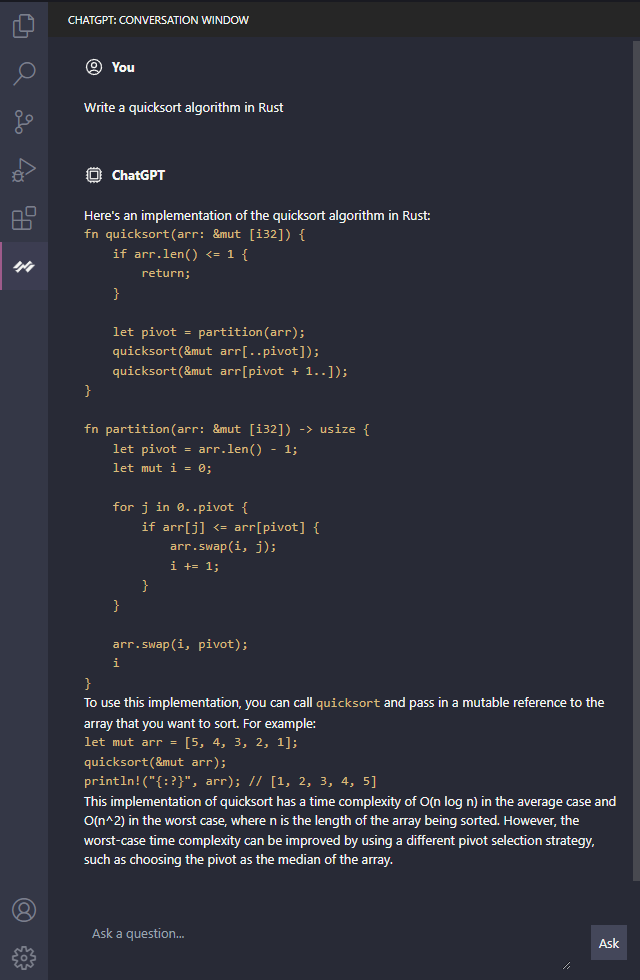
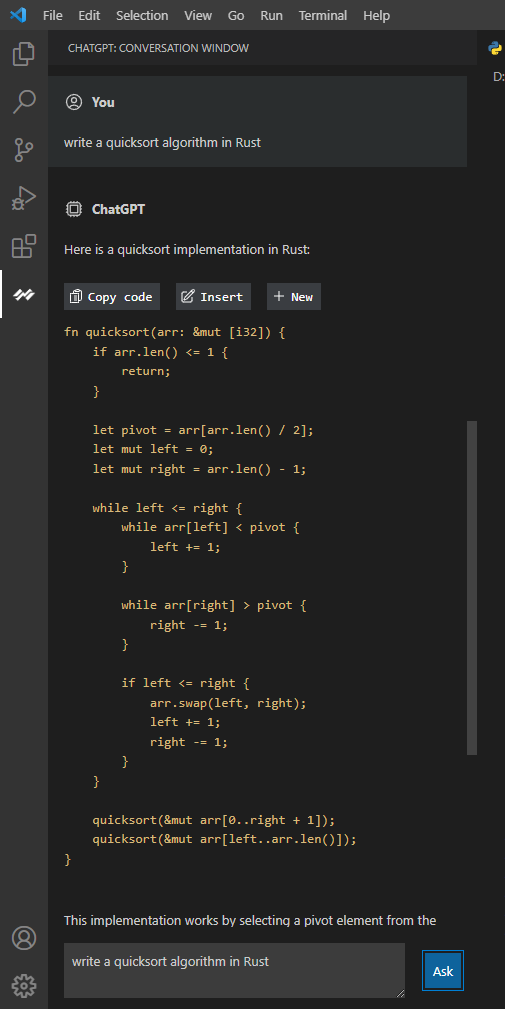
Added copy code, insert and new file features. Addressing #1
Updated Readme.md and Changelog.md with new features

diff --git a/media/main.js b/media/main.js
@@ -5,6 +5,18 @@
 (function () {
     const vscode = acquireVsCodeApi();
 
+    const copySvg = `<svg xmlns="http://www.w3.org/2000/svg" fill="none" viewBox="0 0 24 24" stroke-width="1.5" stroke="currentColor" class="w-4 h-4 mr-1"><path stroke-linecap="round" stroke-linejoin="round" d="M9 12h3.75M9 15h3.75M9 18h3.75m3 .75H18a2.25 2.25 0 002.25-2.25V6.108c0-1.135-.845-2.098-1.976-2.192a48.424 48.424 0 00-1.123-.08m-5.801 0c-.065.21-.1.433-.1.664 0 .414.336.75.75.75h4.5a.75.75 0 00.75-.75 2.25 2.25 0 00-.1-.664m-5.8 0A2.251 2.251 0 0113.5 2.25H15c1.012 0 1.867.668 2.15 1.586m-5.8 0c-.376.023-.75.05-1.124.08C9.095 4.01 8.25 4.973 8.25 6.108V8.25m0 0H4.875c-.621 0-1.125.504-1.125 1.125v11.25c0 .621.504 1.125 1.125 1.125h9.75c.621 0 1.125-.504 1.125-1.125V9.375c0-.621-.504-1.125-1.125-1.125H8.25zM6.75 12h.008v.008H6.75V12zm0 3h.008v.008H6.75V15zm0 3h.008v.008H6.75V18z" /></svg>`;
+
+    const checkSvg = `<svg xmlns="http://www.w3.org/2000/svg" fill="none" viewBox="0 0 24 24" stroke-width="1.5" stroke="currentColor" class="w-4 h-4 mr-1"><path stroke-linecap="round" stroke-linejoin="round" d="M4.5 12.75l6 6 9-13.5" /></svg>`;
+
+    const pencilSvg = `<svg xmlns="http://www.w3.org/2000/svg" fill="none" viewBox="0 0 24 24" stroke-width="1.5" stroke="currentColor" class="w-4 h-4 mr-1"><path stroke-linecap="round" stroke-linejoin="round" d="M16.862 4.487l1.687-1.688a1.875 1.875 0 112.652 2.652L10.582 16.07a4.5 4.5 0 01-1.897 1.13L6 18l.8-2.685a4.5 4.5 0 011.13-1.897l8.932-8.931zm0 0L19.5 7.125M18 14v4.75A2.25 2.25 0 0115.75 21H5.25A2.25 2.25 0 013 18.75V8.25A2.25 2.25 0 015.25 6H10" /></svg>`;
+
+    const plusSvg = `<svg xmlns="http://www.w3.org/2000/svg" fill="none" viewBox="0 0 24 24" stroke-width="1.5" stroke="currentColor" class="w-4 h-4 mr-1"><path stroke-linecap="round" stroke-linejoin="round" d="M12 4.5v15m7.5-7.5h-15" /></svg>`;
+
+    const userSvg = `<svg xmlns="http://www.w3.org/2000/svg" fill="none" viewBox="0 0 24 24" stroke-width="1.5" stroke="currentColor" class="w-5 h-5 mr-2"><path stroke-linecap="round" stroke-linejoin="round" d="M17.982 18.725A7.488 7.488 0 0012 15.75a7.488 7.488 0 00-5.982 2.975m11.963 0a9 9 0 10-11.963 0m11.963 0A8.966 8.966 0 0112 21a8.966 8.966 0 01-5.982-2.275M15 9.75a3 3 0 11-6 0 3 3 0 016 0z" /></svg>`;
+
+    const aiSvg = `<svg xmlns="http://www.w3.org/2000/svg" fill="none" viewBox="0 0 24 24" stroke-width="1.5" stroke="currentColor" class="w-5 h-5 mr-2"><path stroke-linecap="round" stroke-linejoin="round" d="M8.25 3v1.5M4.5 8.25H3m18 0h-1.5M4.5 12H3m18 0h-1.5m-15 3.75H3m18 0h-1.5M8.25 19.5V21M12 3v1.5m0 15V21m3.75-18v1.5m0 15V21m-9-1.5h10.5a2.25 2.25 0 002.25-2.25V6.75a2.25 2.25 0 00-2.25-2.25H6.75A2.25 2.25 0 004.5 6.75v10.5a2.25 2.25 0 002.25 2.25zm.75-12h9v9h-9v-9z" /></svg>`;
+
     // Handle messages sent from the extension to the webview
     window.addEventListener("message", (event) => {
         const message = event.data;
@@ -13,15 +25,12 @@
         switch (message.type) {
             case "addQuestion":
                 const html = message.code != null
-                    ? marked.parseInline(message.value + "<br /> <br /><pre class='overflow-auto'><code>```" + message.code + "```</code></pre>")
+                    ? marked.parseInline(message.value + "<br /> <br /><pre><code class='block whitespace-pre overflow-x-scroll'>```" + message.code + "```</code></pre>")
                     : message.value;
 
                 list.innerHTML +=
-                    `<div class="p-4 self-end mb-4">
-                        <p class="font-bold mb-5 flex">
-                            <svg xmlns="http://www.w3.org/2000/svg" fill="none" viewBox="0 0 24 24" stroke-width="1.5" stroke="currentColor" class="w-5 h-5 mr-2"><path stroke-linecap="round" stroke-linejoin="round" d="M17.982 18.725A7.488 7.488 0 0012 15.75a7.488 7.488 0 00-5.982 2.975m11.963 0a9 9 0 10-11.963 0m11.963 0A8.966 8.966 0 0112 21a8.966 8.966 0 01-5.982-2.275M15 9.75a3 3 0 11-6 0 3 3 0 016 0z" /></svg>
-                            You
-                        </p>
+                    `<div class="p-4 self-end mb-4" style="background: var(--vscode-list-hoverBackground)">
+                        <p class="font-bold mb-5 flex">${userSvg}You</p>
                         <div>${html}</div>
                     </div>`;
 
@@ -30,15 +39,65 @@
             case "addResponse":
                 document.getElementById("in-progress")?.classList?.add("hidden");
 
+                const markedResponse = new DOMParser().parseFromString(marked.parse(message.value), "text/html");
+                const preCodeList = markedResponse.querySelectorAll("pre > code");
+
+                preCodeList.forEach((preCode, index) => {
+                    preCode.parentElement.classList.add("pre-code-element");
+
+                    if (index != preCodeList.length - 1) {
+                        preCode.parentElement.classList.add("mb-8");
+                    }
+
+                    preCode.classList.add("block", "whitespace-pre", "overflow-x-scroll");
+
+                    const buttonWrapper = document.createElement("div");
+                    buttonWrapper.classList.add("flex", "gap-4", "flex-wrap", "mb-3", "mt-6", "items-center");
+
+                    // Create copy to clipboard button
+                    const copyButton = document.createElement("button");
+                    copyButton.title = "Copy to clipboard";
+                    copyButton.innerHTML = copySvg + "Copy code";
+
+                    copyButton.classList.add("code-element-gnc", "p-1", "pr-2", "flex", "items-center");
+                    copyButton.style.background = "var(--vscode-button-secondaryBackground)";
+                    copyButton.style.color = "var(--vscode-button-secondaryForeground)";
+
+                    const insert = document.createElement("button");
+                    insert.title = "Insert the below code to the current file";
+                    insert.innerHTML = pencilSvg + "Insert";
+
+                    insert.classList.add("edit-element-gnc", "p-1", "pr-2", "flex", "items-center");
+                    insert.style.background = "var(--vscode-button-secondaryBackground)";
+                    insert.style.color = "var(--vscode-button-secondaryForeground)";
+
+                    const newTab = document.createElement("button");
+                    newTab.title = "Create a new file with the below code";
+                    newTab.innerHTML = plusSvg + "New";
+
+                    newTab.classList.add("new-code-element-gnc", "p-1", "pr-2", "flex", "items-center");
+                    newTab.style.background = "var(--vscode-button-secondaryBackground)";
+                    newTab.style.color = "var(--vscode-button-secondaryForeground)";
+
+                    buttonWrapper.append(copyButton, insert, newTab);
+
+                    preCode.parentElement.prepend(buttonWrapper);
+                });
+
                 list.innerHTML +=
                     `<div class="p-4 self-end mb-4 pb-8">
-                        <p class="font-bold mb-5 flex">
-                            <svg xmlns="http://www.w3.org/2000/svg" fill="none" viewBox="0 0 24 24" stroke-width="1.5" stroke="currentColor" class="w-5 h-5 mr-2"><path stroke-linecap="round" stroke-linejoin="round" d="M8.25 3v1.5M4.5 8.25H3m18 0h-1.5M4.5 12H3m18 0h-1.5m-15 3.75H3m18 0h-1.5M8.25 19.5V21M12 3v1.5m0 15V21m3.75-18v1.5m0 15V21m-9-1.5h10.5a2.25 2.25 0 002.25-2.25V6.75a2.25 2.25 0 00-2.25-2.25H6.75A2.25 2.25 0 004.5 6.75v10.5a2.25 2.25 0 002.25 2.25zm.75-12h9v9h-9v-9z" /></svg>
-                            ChatGPT
-                        </p>
-                        <div>${marked.parse(message.value)}</div>
+                        <p class="font-bold mb-5 flex">${aiSvg}ChatGPT</p>
+                        <div>${markedResponse.documentElement.innerHTML}</div>
+                    </div>`;
+                break;
+            case "addError":
+                list.innerHTML +=
+                    `<div class="p-4 self-end mb-4 pb-8">
+                        <p class="font-bold mb-5 flex">${aiSvg}ChatGPT</p>
+                        <div class="text-red-400">${marked.parse("An error occurred. If this issue persists please clear your session token with `ChatGPT: Clear session` command and/or restart your Visual Studio Code. If you still experience issues, it may be due to outage on https://openai.com services.")}</div>
                     </div>`;
 
+                document.getElementById("in-progress")?.classList?.add("hidden");
                 break;
             default:
                 break;
@@ -56,4 +115,40 @@
             input.value = "";
         }
     });
+
+    document.addEventListener("click", (e) => {
+        if (e.target?.classList.contains("code-element-gnc")) {
+            e.preventDefault();
+            navigator.clipboard.writeText(e.target.parentElement?.parentElement?.lastChild?.textContent).then(() => {
+                e.target.innerHTML = checkSvg + "Copied";
+
+                setTimeout(() => {
+                    e.target.innerHTML = copySvg + "Copy code";
+                }, 1500);
+            });
+
+            return;
+        }
+
+        if (e.target?.classList.contains("edit-element-gnc")) {
+            e.preventDefault();
+            vscode.postMessage({
+                type: "editCode",
+                value: e.target.parentElement?.parentElement?.lastChild?.textContent,
+            });
+
+            return;
+        }
+
+        if (e.target?.classList.contains("new-code-element-gnc")) {
+            e.preventDefault();
+            vscode.postMessage({
+                type: "openNew",
+                value: e.target.parentElement?.parentElement?.lastChild?.textContent,
+            });
+
+            return;
+        }
+    });
+
 })();

diff --git a/src/extension.ts b/src/extension.ts
@@ -7,50 +7,55 @@ export async function activate(context: vscode.ExtensionContext) {
 
 	const selectionCommandHandler = async (commandPrefix: string) => {
 		const editor = vscode.window.activeTextEditor;
+		if (!editor) {
+			return;
+		}
 
-		if (editor != null) {
-			const selection = editor.document.getText(editor.selection);
-			if (selection != null) {
-				provider?.sendApiRequest(commandPrefix, selection);
-			}
+		const selection = editor.document.getText(editor.selection);
+		if (selection) {
+			provider?.sendApiRequest(commandPrefix, selection);
 		}
 	};
 
-	const view = vscode.window.registerWebviewViewProvider("vscode-chatgpt.view", provider, {
-		webviewOptions: {
-			retainContextWhenHidden: true
+	const view = vscode.window.registerWebviewViewProvider(
+		"vscode-chatgpt.view",
+		provider,
+		{
+			webviewOptions: {
+				retainContextWhenHidden: true,
+			},
+		}
+	);
+
+	const freeText = vscode.commands.registerCommand("vscode-chatgpt.freeText", async () => {
+		const value = await vscode.window.showInputBox({
+			prompt: "Ask anything...",
+		});
+
+		if (value) {
+			provider?.sendApiRequest(value);
 		}
 	});
 
-	const freeText = vscode.commands.registerCommand("vscode-chatgpt.freeText", async () => {
-		vscode.window
-			.showInputBox({ prompt: "Ask anything..." })
-			.then((value) => {
-				provider?.sendApiRequest(value!);
-			});
-	});
+	const commands = [
+		["vscode-chatgpt.addTests", "promptPrefix.addTests"],
+		["vscode-chatgpt.findProblems", "promptPrefix.findProblems"],
+		["vscode-chatgpt.optimize", "promptPrefix.optimize"],
+		["vscode-chatgpt.explain", "promptPrefix.explain"],
+	];
 
-	const addTests = vscode.commands.registerCommand("vscode-chatgpt.addTests", () => {
-		selectionCommandHandler(chatGptExtensionConfig.get("promptPrefix.addTests")!);
-	});
-
-	const findProblems = vscode.commands.registerCommand("vscode-chatgpt.findProblems", () => {
-		selectionCommandHandler(chatGptExtensionConfig.get("promptPrefix.findProblems")!);
-	});
-
-	const optimize = vscode.commands.registerCommand("vscode-chatgpt.optimize", () => {
-		selectionCommandHandler(chatGptExtensionConfig.get("promptPrefix.optimize")!);
-	});
-
-	const explain = vscode.commands.registerCommand("vscode-chatgpt.explain", () => {
-		selectionCommandHandler(chatGptExtensionConfig.get("promptPrefix.explain")!);
-	});
+	const registeredCommands = commands.map(([command, configKey]) =>
+		vscode.commands.registerCommand(command, () => {
+			const commandPrefix = chatGptExtensionConfig.get(configKey) as string;
+			selectionCommandHandler(commandPrefix);
+		})
+	);
 
 	const clear = vscode.commands.registerCommand("vscode-chatgpt.clearSession", () => {
 		context.globalState.update("chatgpt-session-token", null);
 	});
 
-	context.subscriptions.push(view, freeText, addTests, findProblems, optimize, explain, clear);
+	context.subscriptions.push(view, freeText, ...registeredCommands, clear);
 }
 
 export function deactivate() { }

diff --git a/src/chatgpt-view-provider.ts b/src/chatgpt-view-provider.ts
@@ -33,10 +33,19 @@ export default class ChatGptViewProvider implements vscode.WebviewViewProvider {
 
 		webviewView.webview.html = this.getWebviewHtml(webviewView.webview);
 
-		webviewView.webview.onDidReceiveMessage(data => {
+		webviewView.webview.onDidReceiveMessage(async data => {
 			switch (data.type) {
 				case 'addFreeTextQuestion':
 					this.sendApiRequest(data.value);
+					break;
+				case 'editCode':
+					vscode.window.activeTextEditor?.insertSnippet(new vscode.SnippetString(data.value));
+					break;
+				case 'openNew':
+					const document = await vscode.workspace.openTextDocument({
+						content: data.value,
+					});
+					vscode.window.showTextDocument(document);
 					break;
 				default:
 					break;
@@ -71,7 +80,7 @@ export default class ChatGptViewProvider implements vscode.WebviewViewProvider {
 			}
 		}
 
-		let response;
+		let response: string;
 		let question = prompt;
 
 		if (code != null) {
@@ -90,6 +99,14 @@ export default class ChatGptViewProvider implements vscode.WebviewViewProvider {
 
 		try {
 			await this.chatGptApi.ensureAuth();
+
+			setTimeout(() => {
+				if (!response) {
+					this.sendMessage({ type: 'addError' });
+					vscode.window.showErrorMessage("Failed to get response in 30 seconds. Please try again.");
+				}
+			}, 30000);
+
 			response = await this.chatGptApi.sendMessage(question);
 		} catch (error: any) {
 			vscode.window.showErrorMessage("Failed to instantiate the ChatGPT API. Try ChatGPT: Clear session.", error?.message);
@@ -130,7 +147,7 @@ export default class ChatGptViewProvider implements vscode.WebviewViewProvider {
 			<body class="overflow-hidden">
 				<div class="flex flex-col h-screen">
 					<div class="flex-1 overflow-y-auto" id="qa-list"></div>
-					<div id="in-progress" class="p-4 flex items-center hidden">
+					<div id="in-progress" class="pl-4 flex items-center hidden">
 						<div class="typing">Typing</div>
 						<div class="spinner">
 							<div class="bounce1"></div>
@@ -148,7 +165,7 @@ export default class ChatGptViewProvider implements vscode.WebviewViewProvider {
 								placeholder="Ask a question..."
 							></textarea>
 						</div>
-						<button style="background: var(--vscode-button-background)" id="ask-button" class="p-2 ml-5">
+						<button style="background: var(--vscode-button-background);color: var(--vscode-button-foreground)" id="ask-button" class="p-2 ml-5">
 							Ask
 						</button>
 					</div>

diff --git a/media/main.css b/media/main.css
@@ -1,5 +1,5 @@
 :root {
-    --container-padding: 20px;
+    --container-padding: 0;
     --input-padding-vertical: 6px;
     --input-padding-horizontal: 4px;
     --input-margin-vertical: 4px;

diff --git a/README.md b/README.md
@@ -12,19 +12,17 @@
 
 <img src="https://raw.githubusercontent.com/gencay/vscode-chatgpt/main/images/features.png">
 
-# Setup
-
-Follow the instructions here to get your access token: https://github.com/transitive-bullshit/chatgpt-api#how-it-works
-
-During your first interaction with the extension, you will be asked to enter your access token.
-
-<img src="https://raw.githubusercontent.com/gencay/vscode-chatgpt/main/images/setup.png">
-
 # Features
 
-The extension comes with context menu commands, conversation window and customization options for OpenAI's ChatGPT prompts.
+The extension comes with context menu commands, copy/move suggested code into editor with one-click, conversation window and customization options for OpenAI's ChatGPT prompts.
 
 ## ChatGPT conversation window in vs-code
+
+Copy or insert the code ChatGPT is suggesting right into your editor.
+
+<img src="https://raw.githubusercontent.com/gencay/vscode-chatgpt/main/images/code-actions.png">
+
+---
 
 Ask free-form text questions that will be listed in the conversation window. The conversation is kept in cache until vs-code instance is closed.
 
@@ -38,11 +36,15 @@ Right click on a selected block of code, run `ChatGPT: Add Tests` command for Ch
 
 <img src="https://raw.githubusercontent.com/gencay/vscode-chatgpt/main/images/rust-test.png">
 
+---
+
 ## Find problems in your code
 
 Right click on a selected block of code, run `ChatGPT: Find problems` command for ChatGPT to analyze and find problems in your code.
 
 <img src="https://raw.githubusercontent.com/gencay/vscode-chatgpt/main/images/rust-problem.png">
+
+---
 
 ## Improve & optimize your code
 
@@ -50,11 +52,21 @@ Right click on a selected block of code, run `ChatGPT: Optimize` command for Cha
 
 <img src="https://raw.githubusercontent.com/gencay/vscode-chatgpt/main/images/python-optimize.png">
 
+---
+
 ## Explain your code
 
 Right click on a selected block of code, run `ChatGPT: Explain` command for ChatGPT to explain the selected code.
 
 <img src="https://raw.githubusercontent.com/gencay/vscode-chatgpt/main/images/python-explain.png">
+
+# Setup
+
+Follow the instructions here to get your access token: https://github.com/transitive-bullshit/chatgpt-api#how-it-works
+
+During your first interaction with the extension, you will be asked to enter your access token.
+
+<img src="https://raw.githubusercontent.com/gencay/vscode-chatgpt/main/images/setup.png">
 
 # Settings
 
@@ -66,7 +78,10 @@ Right click on a selected block of code, run `ChatGPT: Explain` command for Chat
 
 If the bot isn't responding, try clearing your cache by running the `ChatGPT: Clear session` command.
 
+It's possible that openai systems may experience issues responding to your queries due to high-traffic from time to time.
+
 # Credits
 
 - Open AI ChatGPT: https://chat.openai.com/
+- Open AI Dall-E-2: https://openai.com/dall-e-2/
 - ChatGPT API: https://github.com/transitive-bullshit/chatgpt-api

diff --git a/CHANGELOG.md b/CHANGELOG.md
@@ -2,8 +2,13 @@
 
 All notable changes to the "vscode-chatgpt" extension will be documented in this file.
 
-Check [Keep a Changelog](http://keepachangelog.com/) for recommendations on how to structure this file.
+## [0.2.0] - 2022-12-07
 
-## [Unreleased]
+- Introducing new ways to interact with the suggested code
+- Copy code to clipboard
+- Insert code to text editor
+- Create a new file with the ChatGPT suggested code
 
-- Initial release
+## [0.1.0] - 2022-12-6
+
+- Initial release of the ChatGPT - VS Code extension.
